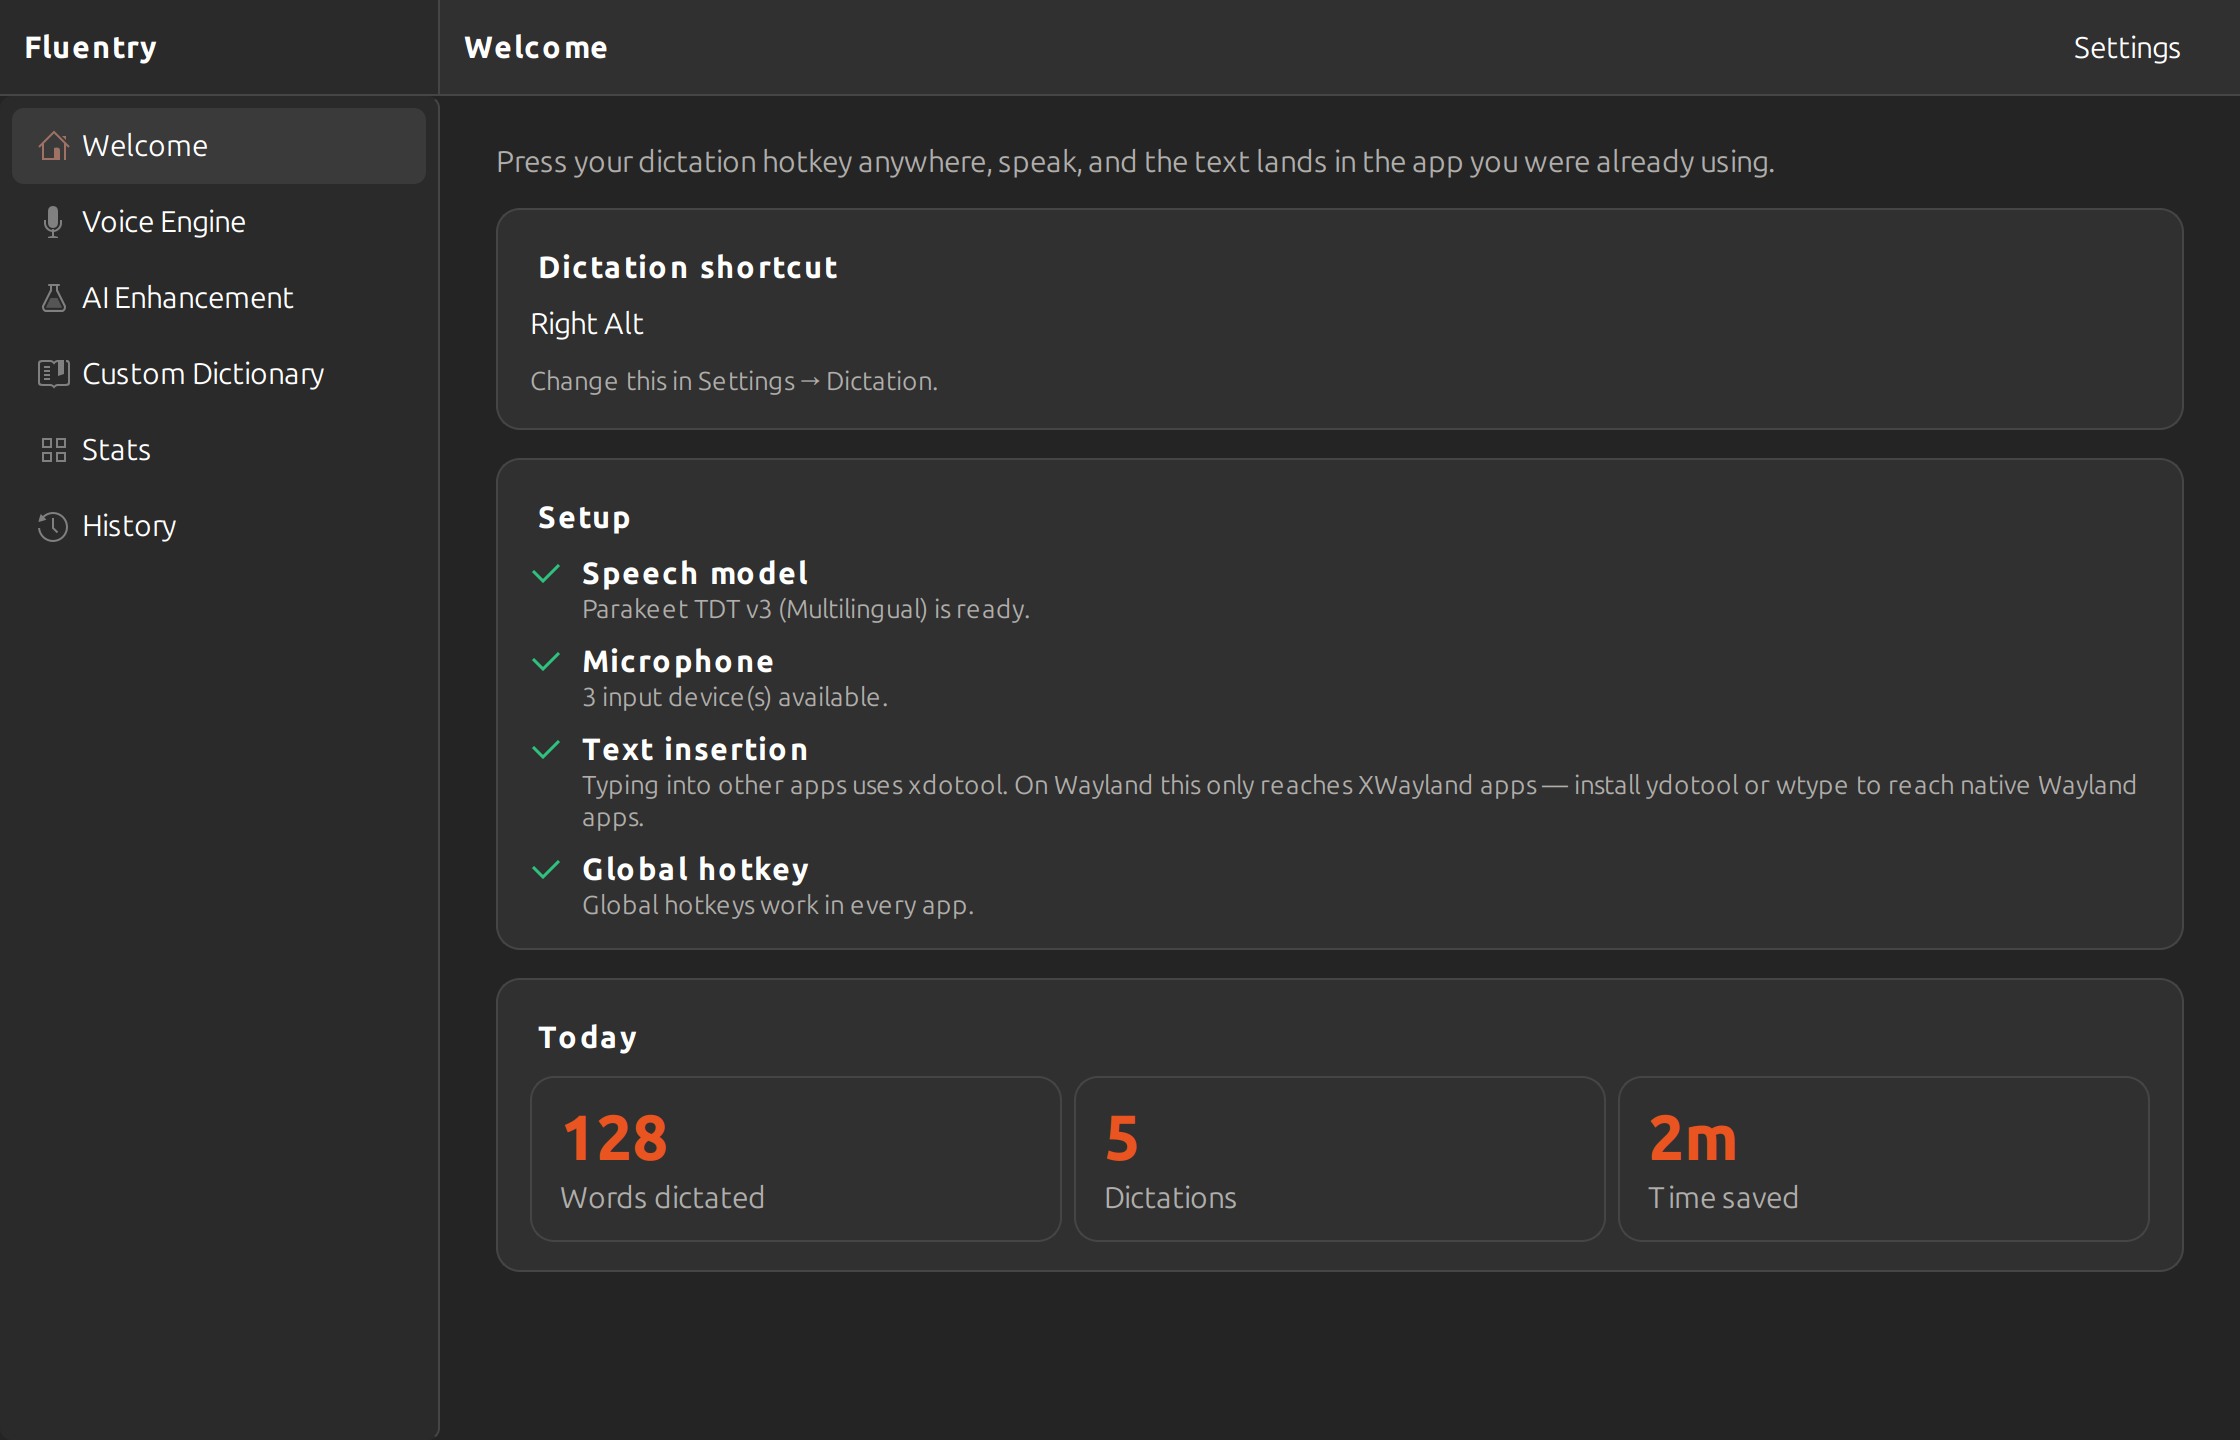
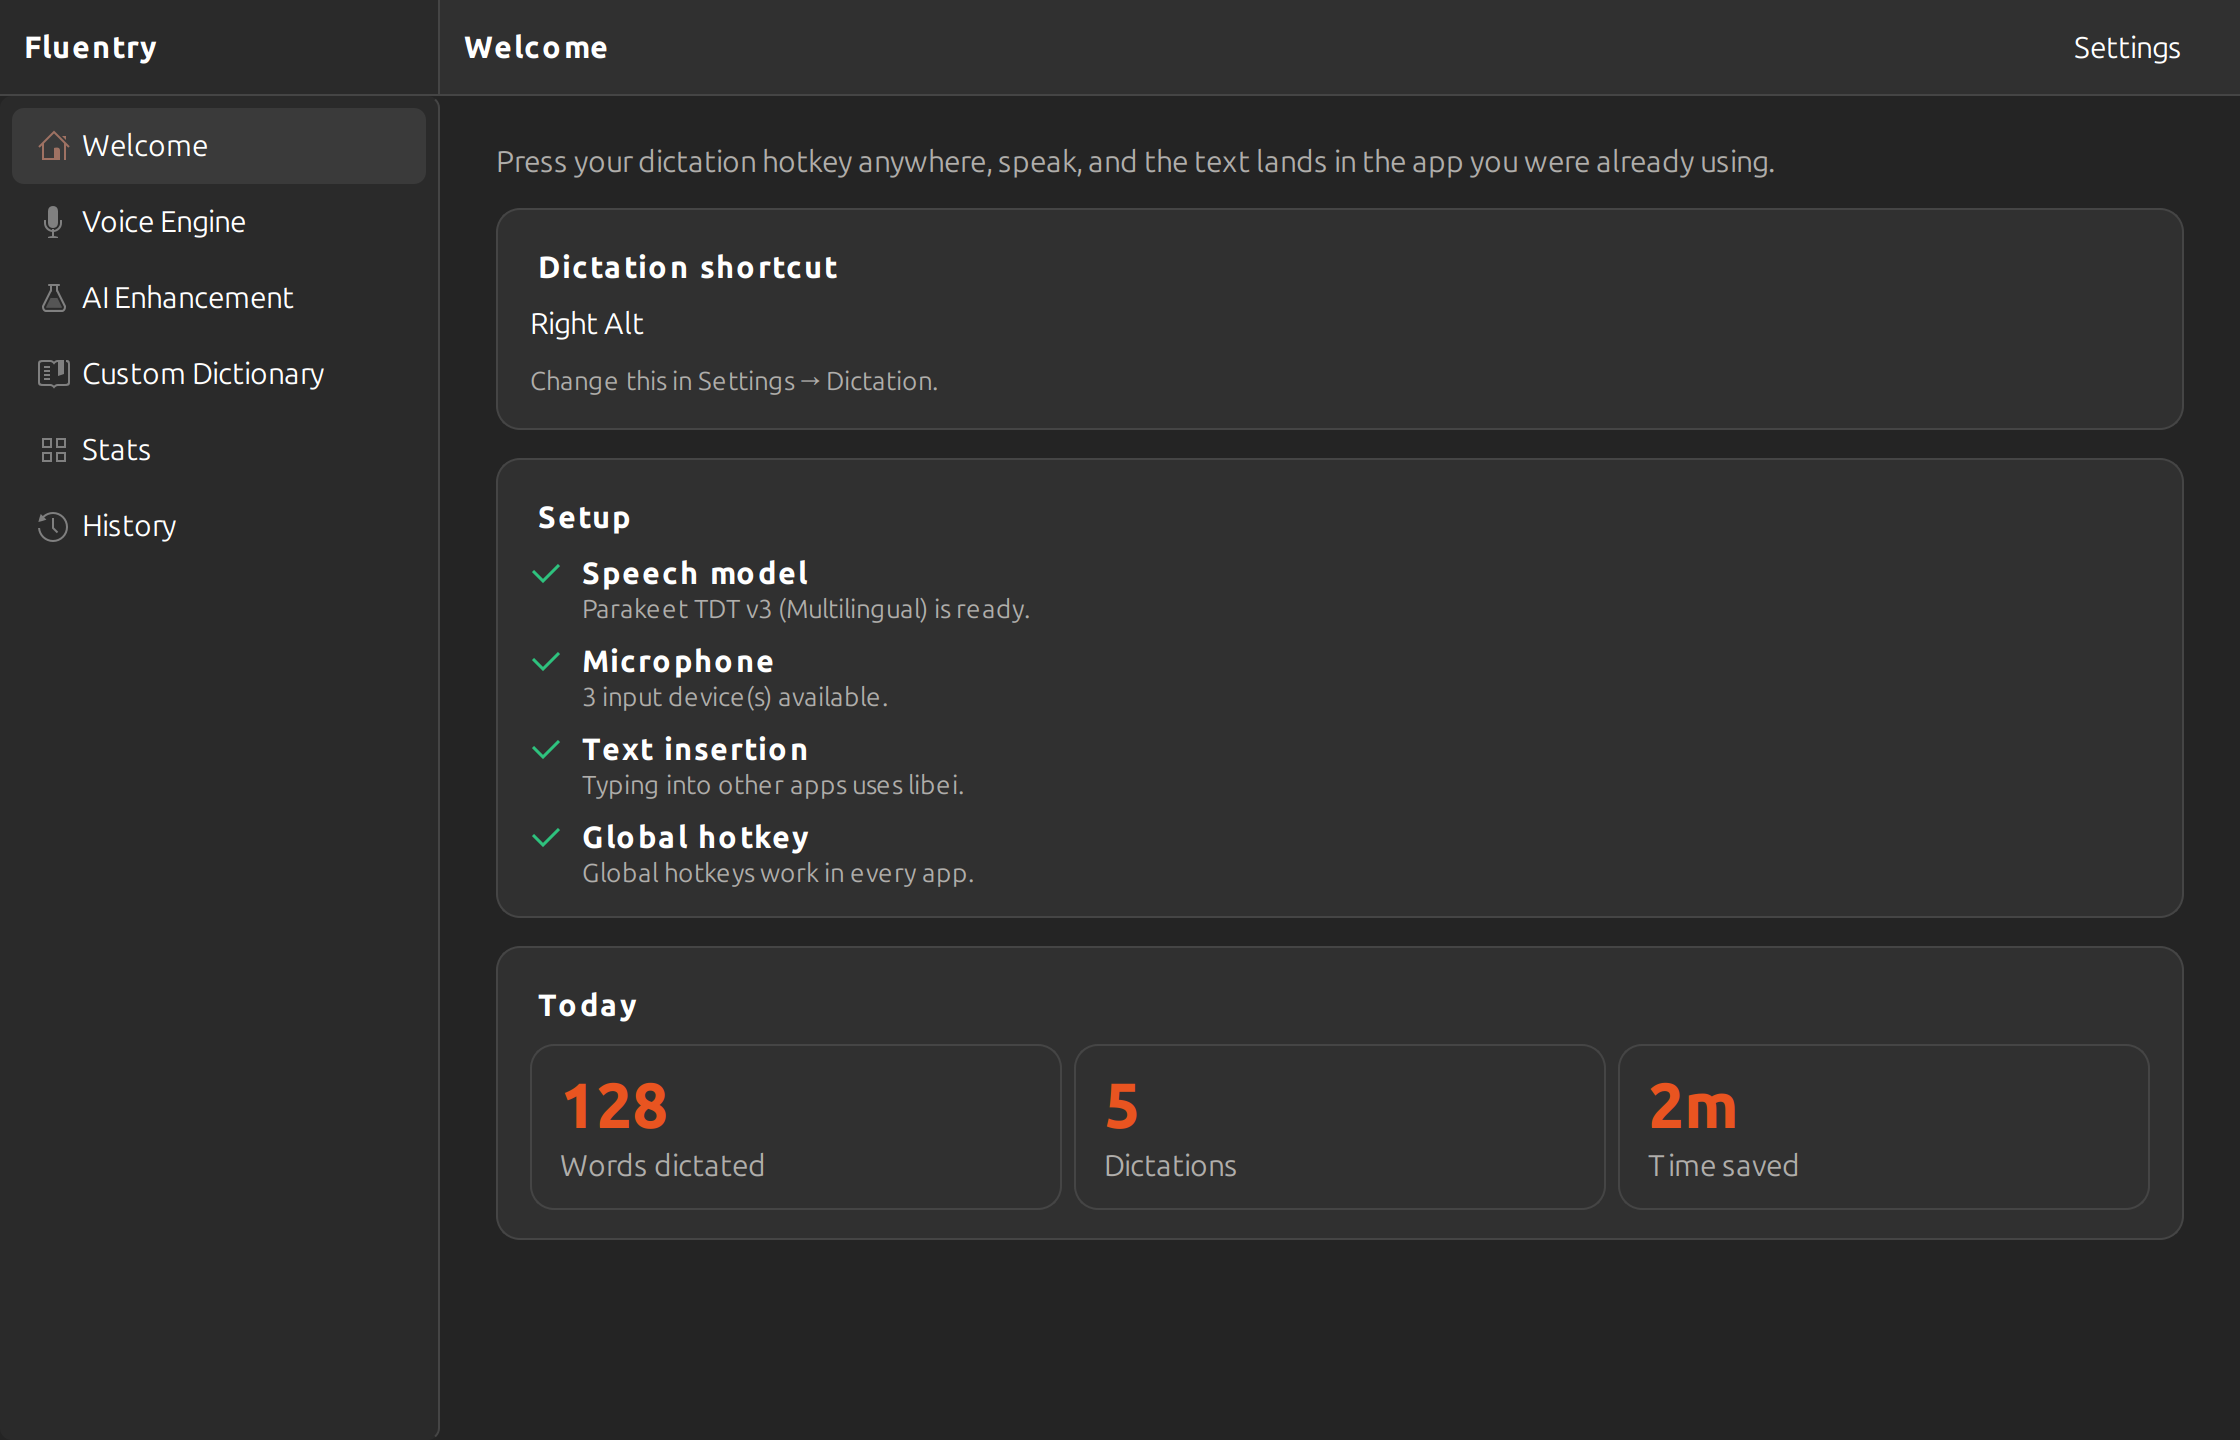
Typing into other apps works on Wayland
The compatibility table was built around a row that is no longer true,
and told people to install ydotool for a job it cannot do on GNOME: its
events reach the kernel and the compositor reads them and discards them.
libei is the path a compositor is obliged to deliver, and it asks
permission once rather than every launch.

Also points at 1.7.0 and refreshes the Welcome screenshot, which now
shows the backend actually in use.

diff --git a/index.html b/index.html
@@ -44,8 +44,8 @@
 
 <section class="hero">
   <div class="wrap">
-    <a class="eyebrow" href="https://github.com/Fluentry/Fluentry/releases/tag/v1.6.1">
-      <span class="dot"></span> Version 1.6.1 is out
+    <a class="eyebrow" href="https://github.com/Fluentry/Fluentry/releases/tag/v1.7.0">
+      <span class="dot"></span> Version 1.7.0 is out
     </a>
 
     <h1>Say it once.<br>Fluentry <span class="accent">types it.</span></h1>
@@ -275,7 +275,7 @@
     </div>
 
     <div class="code reveal">
-      <button class="copy" type="button" data-copy="pip install 'fluentry[gui,audio,input,whisper,parakeet]'&#10;fluentry --check&#10;fluentry">Copy</button>
+      <button class="copy" type="button" data-copy="pip install 'fluentry[gui,audio,input,whisper,parakeet,libei]'&#10;fluentry --check&#10;fluentry">Copy</button>
 <pre><span class="p">$</span> pip install <span class="c">'fluentry[gui,audio,input,whisper,parakeet]'</span>
 <span class="p">$</span> fluentry --check   <span class="c"># what this machine supports</span>
 <span class="p">$</span> fluentry</pre>
@@ -288,6 +288,7 @@
       <div class="extra"><code>whisper</code><span>the Whisper engines</span></div>
       <div class="extra"><code>parakeet</code><span>the Parakeet engines</span></div>
       <div class="extra"><code>onnx</code><span>Nemotron and Cohere</span></div>
+      <div class="extra"><code>libei</code><span>typing on Wayland</span></div>
     </div>
   </div>
 </section>
@@ -317,7 +318,7 @@
     <div class="sec-head reveal">
       <span class="kicker">Compatibility</span>
       <h2>Wayland, honestly.</h2>
-      <p>Wayland keeps three things from every application, Fluentry included. Here is what each one costs and how to get it back — and <code>fluentry --check</code> tells you which apply to your session before you hit them.</p>
+      <p>Wayland withholds things from every application, Fluentry included. Typing into other apps is solved — through the input path the compositor sanctions, which asks your permission once. Here is what is left, and <code>fluentry --check</code> tells you which applies to your session before you hit it.</p>
     </div>
     <div class="table-wrap reveal">
       <table>
@@ -326,8 +327,8 @@
           <tr>
             <td>Typing into other apps</td>
             <td><span class="status ok">Works</span></td>
-            <td><span class="status part">XWayland only</span></td>
-            <td>Install <code>ydotool</code> or <code>wtype</code>, or use <em>Copy to Clipboard Only</em></td>
+            <td><span class="status ok">Works</span></td>
+            <td>Through libei and the RemoteDesktop portal, which asks once and remembers. Needs <code>python-libei</code> and your distribution’s <code>libei</code> and <code>python3-gi</code></td>
           </tr>
           <tr>
             <td>Global hotkeys</td>
@@ -339,7 +340,7 @@
             <td>Per-app prompts</td>
             <td><span class="status ok">Works</span></td>
             <td><span class="status part">Some compositors</span></td>
-            <td>Hyprland, Sway and KWin expose the focused window; most do not</td>
+            <td>Hyprland, Sway and KWin expose the focused window. GNOME has the interface but allows only portals to call it</td>
           </tr>
         </tbody>
       </table>
@@ -383,7 +384,7 @@
     <h2>Stop typing what you could just say.</h2>
     <div class="actions">
       <a class="btn btn-primary" href="#install">Install Fluentry</a>
-      <a class="btn" href="https://github.com/Fluentry/Fluentry/releases/tag/v1.6.1">Release notes</a>
+      <a class="btn" href="https://github.com/Fluentry/Fluentry/releases/tag/v1.7.0">Release notes</a>
     </div>
   </div>
 </section>
